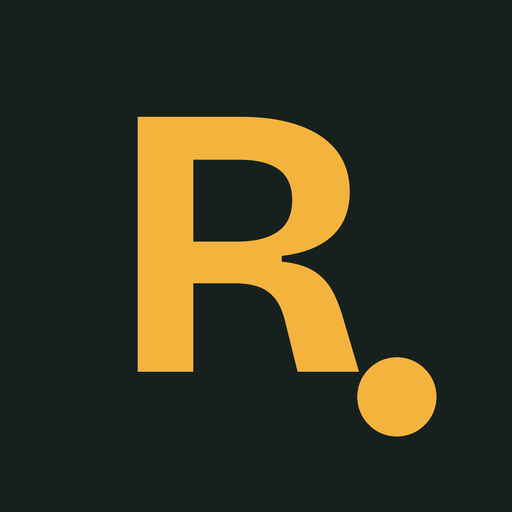
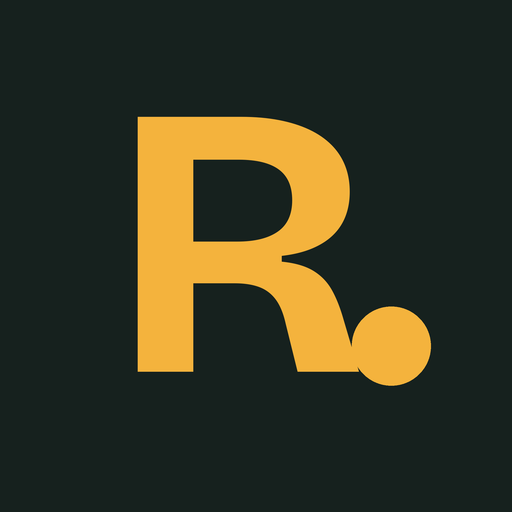
feat(pwa): new mark on the web app, and maskable padding fixed properly
The home-screen icon on an iPhone was still the old periwinkle "FR" monogram while the
app itself wore the new R. Both surfaces now come from one definition in
scripts/icon_art.py: mobile/tool/make_icons.py for Android/iOS, and
scripts/make_pwa_icons.py for the manifest, apple-touch-icon and favicons.

Manifest bug found while doing it: every icon was declared "any maskable", which tells
Android to mask the full-bleed art — cropping the corners, exactly where the dot sits.
Split into "any" for the full-bleed set and a separate icon-maskable-512 drawn inside
the middle 80% circle.

Root cause was deeper than padding. The dot's position was a fraction of the CANVAS, so
increasing the padding shrank the letter but never pulled the dot inward; the first
maskable attempt still had the dot outside the safe circle. It is now positioned
relative to the glyph box, so the whole composition scales together. Verified
numerically (max ink radius 0.244 of width vs the 0.40 limit) rather than by eye.

Also: apple-touch-icon is opaque (iOS puts black behind transparency) and 180px, the
favicon is a real multi-size .ico (16/32/48) instead of one downscale, the service
worker's notification icon is cache-busted so the shade stops drawing the old mark, and
a test now asserts every manifest icon exists on disk — a 404 icon breaks "Add to Home
Screen" with no error anywhere.

113 tests pass. PWA icons v=3.

Changed region(s): [[0.6875, 0.5938, 0.875, 0.875]]

diff --git a/app/templates/base.html b/app/templates/base.html
@@ -7,10 +7,10 @@
   <meta name="description" content="Get a push notification the moment your register ID lands on a VIT CDC placement shortlist.">
   <title>{{ brand }}{% block title %}{% endblock %}</title>
   <link rel="manifest" href="/manifest.json">
-  <link rel="icon" type="image/x-icon" href="/static/favicon.ico?v=2">
-  <link rel="icon" type="image/png" sizes="32x32" href="/static/favicon.png?v=2">
-  <link rel="icon" type="image/png" sizes="256x256" href="/static/favicon-256.png">
-  <link rel="apple-touch-icon" href="/static/icon-192.png?v=2">
+  <link rel="icon" type="image/x-icon" href="/static/favicon.ico?v=3">
+  <link rel="icon" type="image/png" sizes="32x32" href="/static/favicon.png?v=3">
+  <link rel="icon" type="image/png" sizes="256x256" href="/static/favicon-256.png?v=3">
+  <link rel="apple-touch-icon" sizes="180x180" href="/static/apple-touch-icon.png?v=3">
   <meta name="apple-mobile-web-app-capable" content="yes">
   <meta name="mobile-web-app-capable" content="yes">
   <meta name="apple-mobile-web-app-status-bar-style" content="black-translucent">

diff --git a/static/sw.js b/static/sw.js
@@ -11,8 +11,8 @@ self.addEventListener('push', (e) => {
   e.waitUntil(
     self.registration.showNotification(data.title || 'Recruit', {
       body: data.body || '',
-      icon: '/static/icon-192.png',
-      badge: '/static/icon-192.png',
+      icon: '/static/icon-192.png?v=3',
+      badge: '/static/icon-192.png?v=3',
       // One notification per mail: a re-send (or the same mail arriving on two
       // devices) REPLACES the existing card instead of stacking duplicates.
       tag: data.tag || 'recruit',

diff --git a/mobile/tool/make_icons.py b/mobile/tool/make_icons.py
@@ -3,6 +3,8 @@
 
 Run from mobile/:  python3 tool/make_icons.py
 
+PWA icons are generated next door by:  python3 scripts/make_pwa_icons.py
+
 Design notes, so a future edit does not undo them:
   * One glyph, no hairlines. The previous mark lost its frame, arcs and negative
     gaps below 48 px. Everything here survives being scaled to 48 px because it is
@@ -13,70 +15,16 @@ Design notes, so a future edit does not undo them:
   * Android adaptive icons must keep their content inside the middle ~66% (the
     launcher masks and parades the rest), so the foreground layer is padded hard.
 """
+import sys
 from pathlib import Path
 
-from PIL import Image, ImageDraw, ImageFont
+HERE = Path(__file__).resolve().parent.parent          # mobile/
 
-HERE = Path(__file__).resolve().parent.parent
-SAFFRON = (244, 179, 61, 255)
-TILE = (22, 33, 30, 255)   # R.surface, not the page background
-FONT = HERE / "assets" / "fonts" / "Bricolage-700.ttf"
-
-MASTER = 2048          # supersample; everything is downsampled from this
-SS = 4                 # extra factor for shape anti-aliasing
-
-
-def draw_mark(size: int, *, tile: bool, pad: float) -> Image.Image:
-    """The mark at `size` px. `pad` is the fraction of the canvas kept empty."""
-    s = size * SS
-    img = Image.new("RGBA", (s, s), TILE if tile else (0, 0, 0, 0))
-    d = ImageDraw.Draw(img)
-
-    inner = s * (1 - 2 * pad)
-    # The R: sized by bounding box, then centred on its own ink, not its em box.
-    font = ImageFont.truetype(str(FONT), int(inner * 1.02))
-    box = d.textbbox((0, 0), "R", font=font)
-    gw, gh = box[2] - box[0], box[3] - box[1]
-    scale = min(inner / gw, inner / gh)
-    if scale < 1:
-        font = ImageFont.truetype(str(FONT), int(font.size * scale))
-        box = d.textbbox((0, 0), "R", font=font)
-        gw, gh = box[2] - box[0], box[3] - box[1]
-
-    cx, cy = s * 0.47, s * 0.477          # nudged up-left: the dot takes the corner
-    d.text((cx - gw / 2 - box[0], cy - gh / 2 - box[1]), "R", font=font, fill=SAFFRON)
-
-    # One dot, bottom-right: "you were shortlisted". It sits clear of the
-    # letterform on purpose — an earlier version painted a tile-coloured ring
-    # around it, which ate the R's leg and made the mark read as a P.
-    r = gh * 0.155
-    dx, dy = s * 0.775, s * 0.775
-    d.ellipse([dx - r, dy - r, dx + r, dy + r], fill=SAFFRON)
-
-    return img.resize((size, size), Image.Resampling.LANCZOS)
-
-
-def draw_stat_icon(size: int) -> Image.Image:
-    """Status-bar icon: white on transparent, no tile, no dot.
-
-    The system paints small icons as a white silhouette, so the coloured tile icon
-    turns into a solid white square in the status bar. This is the glyph only.
-    """
-    s = size * SS
-    img = Image.new("RGBA", (s, s), (0, 0, 0, 0))
-    d = ImageDraw.Draw(img)
-    inner = s * 0.88
-    font = ImageFont.truetype(str(FONT), int(inner * 1.02))
-    box = d.textbbox((0, 0), "R", font=font)
-    gw, gh = box[2] - box[0], box[3] - box[1]
-    scale = min(inner / gw, inner / gh)
-    if scale < 1:
-        font = ImageFont.truetype(str(FONT), int(font.size * scale))
-        box = d.textbbox((0, 0), "R", font=font)
-        gw, gh = box[2] - box[0], box[3] - box[1]
-    d.text((s / 2 - gw / 2 - box[0], s / 2 - gh / 2 - box[1]), "R",
-           font=font, fill=(255, 255, 255, 255))
-    return img.resize((size, size), Image.Resampling.LANCZOS)
+# Geometry lives in scripts/icon_art.py, shared with scripts/make_pwa_icons.py, so the
+# web icon and the native icon cannot drift apart.
+sys.path.insert(0, str(HERE.parent / "scripts"))
+from PIL import Image  # noqa: E402
+from icon_art import mark as draw_mark, stat_icon as draw_stat_icon  # noqa: E402
 
 
 def write(img: Image.Image, path: Path) -> None:

diff --git a/scripts/icon_art.py b/scripts/icon_art.py
@@ -1,0 +1,85 @@
+"""The Recruit mark, drawn once and reused by every surface.
+
+Two generators import this: `mobile/tool/make_icons.py` (Android/iOS app icons) and
+`scripts/make_pwa_icons.py` (web manifest, apple-touch-icon, favicons). Keeping the
+geometry here means the home-screen icon on an iPhone and the launcher icon on an
+Android phone cannot drift apart.
+
+Design rules, learned by shipping the wrong thing first:
+  * One heavy letterform. An earlier mark lost its frame, arcs and negative gaps
+    below 48 px.
+  * Saffron #F4B33D on R.surface #16211E, straight from the app's theme.
+  * The dot sits CLEAR of the letter. A tile-coloured ring around it once ate the
+    R's leg and the mark read as a P.
+"""
+from __future__ import annotations
+
+from pathlib import Path
+
+from PIL import Image, ImageDraw, ImageFont
+
+ROOT = Path(__file__).resolve().parent.parent
+FONT = ROOT / "mobile" / "assets" / "fonts" / "Bricolage-700.ttf"
+
+SAFFRON = (244, 179, 61, 255)
+TILE = (22, 33, 30, 255)          # R.surface
+SS = 4                            # supersample factor
+
+
+def _font_for(inner: float, glyph: str = "R") -> tuple[ImageFont.FreeTypeFont, float, float]:
+    """A font sized so `glyph`'s ink fills `inner` px, plus its ink box offset."""
+    font = ImageFont.truetype(str(FONT), int(inner * 1.02))
+    probe = ImageDraw.Draw(Image.new("L", (10, 10)))
+    box = probe.textbbox((0, 0), glyph, font=font)
+    gw, gh = box[2] - box[0], box[3] - box[1]
+    scale = min(inner / gw, inner / gh)
+    if scale < 1:
+        font = ImageFont.truetype(str(FONT), int(font.size * scale))
+        box = probe.textbbox((0, 0), glyph, font=font)
+        gw, gh = box[2] - box[0], box[3] - box[1]
+    return font, gw, gh
+
+
+def mark(size: int, *, tile: bool = True, pad: float = 0.13, dot: bool = True) -> Image.Image:
+    """The mark at `size` px. `pad` is the fraction of the canvas kept empty.
+
+    iOS `apple-touch-icon` and maskable PWA icons need an opaque tile; the in-app
+    mark is drawn with tile=False so it sits on the app's own background.
+    """
+    s = size * SS
+    img = Image.new("RGBA", (s, s), TILE if tile else (0, 0, 0, 0))
+    d = ImageDraw.Draw(img)
+
+    inner = s * (1 - 2 * pad)
+    font, gw, gh = _font_for(inner)
+    box = d.textbbox((0, 0), "R", font=font)
+    cx, cy = s * 0.47, s * 0.477          # nudged up-left: the dot takes the corner
+    d.text((cx - gw / 2 - box[0], cy - gh / 2 - box[1]), "R", font=font, fill=SAFFRON)
+
+    if dot:
+        # Positioned relative to the GLYPH, not the canvas. Anchoring it to a canvas
+        # fraction meant padding shrank the letter but never pulled the dot inward —
+        # which pushed the dot outside Android's maskable safe circle.
+        gx0, gy0 = cx - gw / 2, cy - gh / 2
+        r = gh * 0.155
+        dx, dy = gx0 + gw * 1.075, gy0 + gh * 0.90
+        d.ellipse([dx - r, dy - r, dx + r, dy + r], fill=SAFFRON)
+
+    return img.resize((size, size), Image.Resampling.LANCZOS)
+
+
+def stat_icon(size: int) -> Image.Image:
+    """Status-bar icon: white on transparent, no tile, no dot.
+
+    Android paints small icons as a white silhouette, so the coloured tile icon
+    shows up as a featureless white square in the status bar.
+    """
+    s = size * SS
+    img = Image.new("RGBA", (s, s), (0, 0, 0, 0))
+    d = ImageDraw.Draw(img)
+    inner = s * 0.88
+    font, gw, gh = _font_for(inner)
+    box = d.textbbox((0, 0), "R", font=font)
+    d.text((s / 2 - gw / 2 - box[0], s / 2 - gh / 2 - box[1]), "R",
+           font=font, fill=(255, 255, 255, 255))
+    return img.resize((size, size), Image.Resampling.LANCZOS)

diff --git a/scripts/make_pwa_icons.py b/scripts/make_pwa_icons.py
@@ -1,0 +1,54 @@
+#!/usr/bin/env python3
+"""Generate every PWA icon: manifest sizes, maskable, apple-touch-icon, favicons.
+
+Run from the repo root:  python3 scripts/make_pwa_icons.py
+
+Why maskable gets its own file: the manifest used to claim `"any maskable"` on the
+full-bleed art. Android then masks it to a circle, and anything in the corners — the
+dot, in our case — is cropped away. A maskable icon must keep its content inside the
+middle 80% circle, so it is drawn with much heavier padding.
+"""
+from __future__ import annotations
+
+import sys
+from pathlib import Path
+
+ROOT = Path(__file__).resolve().parent.parent
+sys.path.insert(0, str(ROOT / "scripts"))
+
+from icon_art import mark  # noqa: E402
+
+STATIC = ROOT / "static"
+
+
+def save(img, name: str) -> None:
+    path = STATIC / name
+    img.save(path, "PNG", optimize=True)
+    print(f"  static/{name:<26} {img.size[0]}x{img.size[1]}  {path.stat().st_size // 1024 or 1} KB")
+
+
+def main() -> None:
+    print("manifest icons (purpose: any)")
+    for px in (192, 384, 512):
+        save(mark(px, pad=0.13).convert("RGB"), f"icon-{px}.png")
+
+    print("maskable (content inside the safe circle)")
+    save(mark(512, pad=0.26).convert("RGB"), "icon-maskable-512.png")
+
+    print("apple-touch-icon (opaque; iOS puts black behind transparency)")
+    save(mark(180, pad=0.16).convert("RGB"), "apple-touch-icon.png")
+
+    print("favicons")
+    save(mark(32, pad=0.09).convert("RGB"), "favicon.png")
+    save(mark(256, pad=0.11).convert("RGB"), "favicon-256.png")
+
+    # Multi-size .ico: browsers pick the size they need, and a 16px entry that is
+    # merely a downscaled 256 looks like mud.
+    ico_sizes = [16, 32, 48]
+    base = mark(max(ico_sizes), pad=0.09).convert("RGB")
+    base.save(STATIC / "favicon.ico", sizes=[(s, s) for s in ico_sizes])
+    print(f"  static/favicon.ico              {', '.join(f'{s}x{s}' for s in ico_sizes)}")
+
+
+if __name__ == "__main__":
+    main()

diff --git a/app/web.py b/app/web.py
@@ -95,8 +95,12 @@ def manifest():
         "background_color": "#0E1715",
         "theme_color": "#0E1715",
         "icons": [
-            {"src": "/static/icon-192.png?v=2", "sizes": "192x192", "type": "image/png", "purpose": "any maskable"},
-            {"src": "/static/icon-384.png?v=2", "sizes": "384x384", "type": "image/png", "purpose": "any maskable"},
-            {"src": "/static/icon-512.png?v=2", "sizes": "512x512", "type": "image/png", "purpose": "any maskable"},
+            {"src": "/static/icon-192.png?v=3", "sizes": "192x192", "type": "image/png", "purpose": "any"},
+            {"src": "/static/icon-384.png?v=3", "sizes": "384x384", "type": "image/png", "purpose": "any"},
+            {"src": "/static/icon-512.png?v=3", "sizes": "512x512", "type": "image/png", "purpose": "any"},
+            # Separate file, padded into the middle 80% circle: Android masks a
+            # maskable icon and would otherwise crop the dot off the corner.
+            {"src": "/static/icon-maskable-512.png?v=3", "sizes": "512x512",
+             "type": "image/png", "purpose": "maskable"},
         ],
     })

diff --git a/tests/test_core.py b/tests/test_core.py
@@ -1,3 +1,5 @@
+from pathlib import Path
+
 """Auth, onboarding, hits, and end-to-end ingest → match → hit."""
 from tests.conftest import register  # noqa: F401 (fixture)
 
@@ -349,3 +351,12 @@ async def test_app_pages_render_with_tabs(client, register):
         assert el in prof.text, el
     m = (await client.get("/manifest.json")).json()
     assert m["theme_color"] == "#0E1715"
+    # A manifest icon that 404s breaks "Add to Home Screen" with no error anywhere,
+    # so assert every declared file is actually on disk.
+    root = Path(__file__).resolve().parent.parent
+    purposes = set()
+    for icon in m["icons"]:
+        src = icon["src"].split("?")[0].lstrip("/")
+        assert (root / src).is_file(), f"manifest icon missing on disk: {src}"
+        purposes.add(icon["purpose"])
+    assert {"any", "maskable"} <= purposes, purposes
